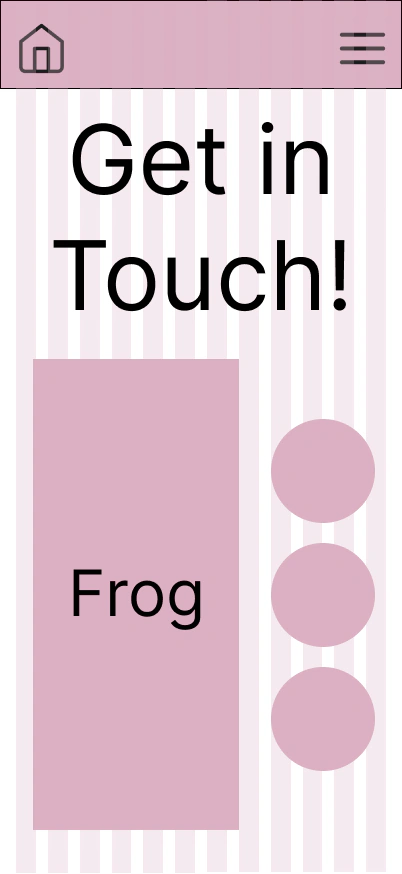
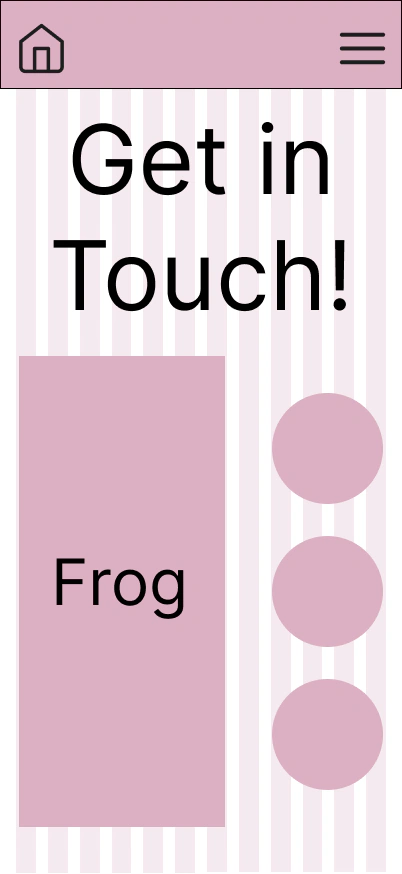
Adding feedback from teacher including fixing certain images and adding composition to storyboard page.

diff --git a/analysis.html b/analysis.html
@@ -207,21 +207,21 @@
 
           <div class="col-12 col-md-4 d-flex justify-content-center">
             <img 
-              src="img/analysis/analysis_mobile1.webp"
+              src="img/analysis/analysis_mobile1.png"
               class="img-fluid analysis-mobile"
               alt="Mobile Contact Page">
           </div>
 
           <div class="col-12 col-md-4 d-flex justify-content-center">
             <img 
-              src="img/analysis/analysis_mobile2.webp"
+              src="img/analysis/analysis_mobile2.png"
               class="img-fluid analysis-mobile"
               alt="Mobile Projects Page">
           </div>
 
           <div class="col-12 col-md-4 d-flex justify-content-center">
             <img 
-              src="img/analysis/analysis_mobile3.webp"
+              src="img/analysis/analysis_mobile3.png"
               class="img-fluid analysis-mobile"
               alt="Mobile Homepage">
           </div>

diff --git a/storyboard.html b/storyboard.html
@@ -197,6 +197,19 @@
 
         </div>
       </section>
+
+      <section class="section-style">
+        <h2>Proposed Final Look</h2>
+
+        <p class="page-intro">
+          This refined composition shows the intended visual direction for the opening scene of the time-based component, including the colour palette, imagery, and overall aesthetic.
+        </p>
+
+        <img
+          src="img/designs/Design_Home.webp"
+          class="img-fluid d-block mx-auto storyboard-composition"
+          alt="Refined Home Screen Composition Showing Proposed Final Look of Time Based Component">
+      </section>
      
     </main>
 

diff --git a/css/custom.css b/css/custom.css
@@ -177,6 +177,12 @@ body {
   line-height: 1.7;
 }
 
+.storyboard-composition {
+  width: 100%;
+  max-width: 1200px;
+  height: auto;
+}
+
 /* Sketch Styling */
 
 .sketch-image {
